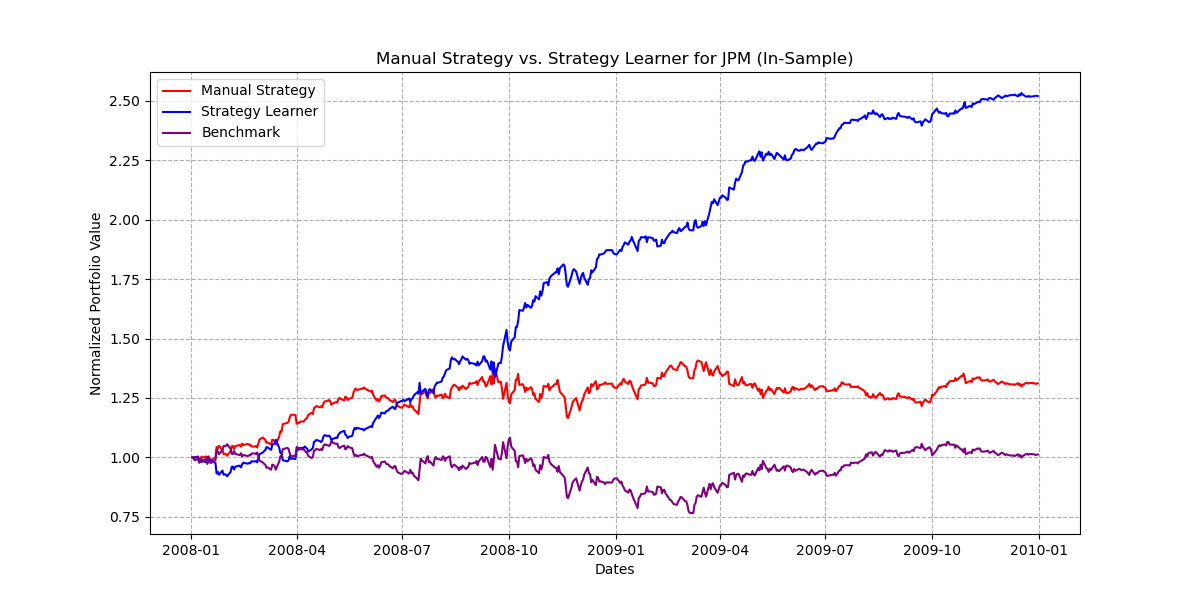
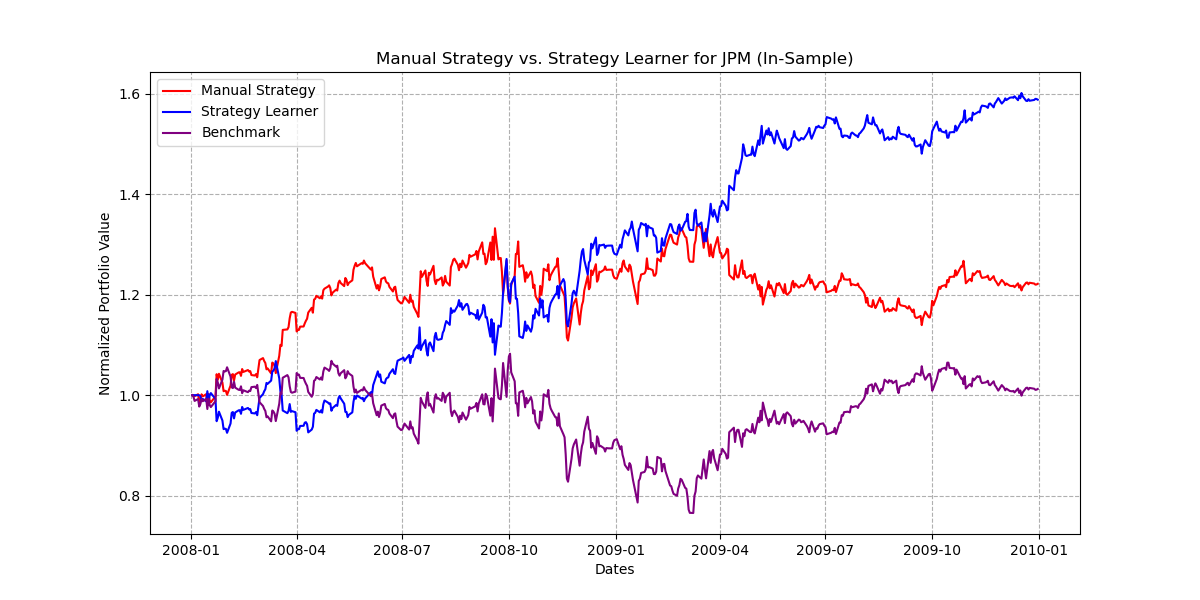
Changed commission and impact of experiment1

diff --git a/experiment1.py b/experiment1.py
@@ -25,7 +25,7 @@ def plot_experiment(ms_values, sl_values, bm_values, sample_type, symbol):
 
 def run_experiment(symbol, in_sd, in_ed, out_sd, out_ed, sv):
     # Manual Strategy and Benchmark values (in and out sample)
-    manual_strategy = ms.ManualStrategy()
+    manual_strategy = ms.ManualStrategy(impact=0.005, commission=9.95)
     manual_in_trades = manual_strategy.testPolicy(symbol=symbol, sd=in_sd, ed=in_ed, sv=sv)
     manual_in_values = msc.compute_portvals(
         trades=manual_in_trades,
@@ -51,7 +51,7 @@ def run_experiment(symbol, in_sd, in_ed, out_sd, out_ed, sv):
     benchmark_out_values = manual_strategy.benchmark(symbol=symbol, sd=out_sd, ed=out_ed, sv=sv)
 
     # Strategy Learner (in and out sample)
-    learner = sl.StrategyLearner(verbose=False, impact=0.0, commission=0.0)
+    learner = sl.StrategyLearner(verbose=False, impact=0.005, commission=9.95)
     learner.add_evidence(symbol=symbol, sd=in_sd, ed=in_ed, sv=sv)
     learner_in_trades = learner.testPolicy(symbol=symbol, sd=in_sd, ed=in_ed, sv=sv)
     learner_in_values = msc.compute_portvals(
